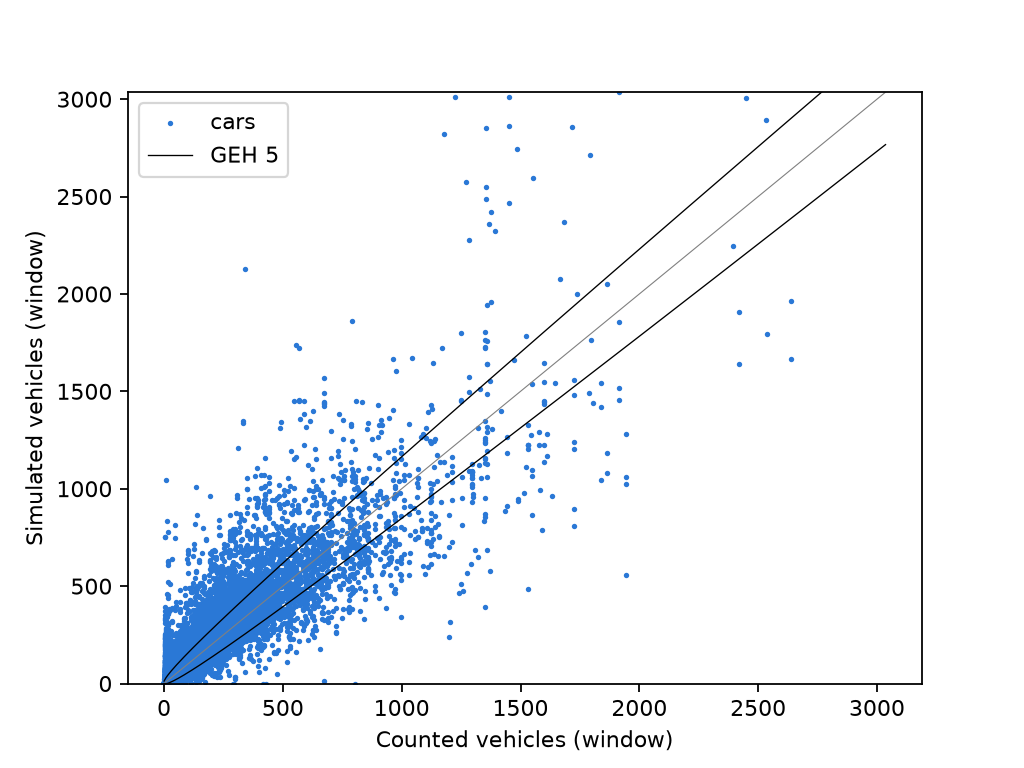
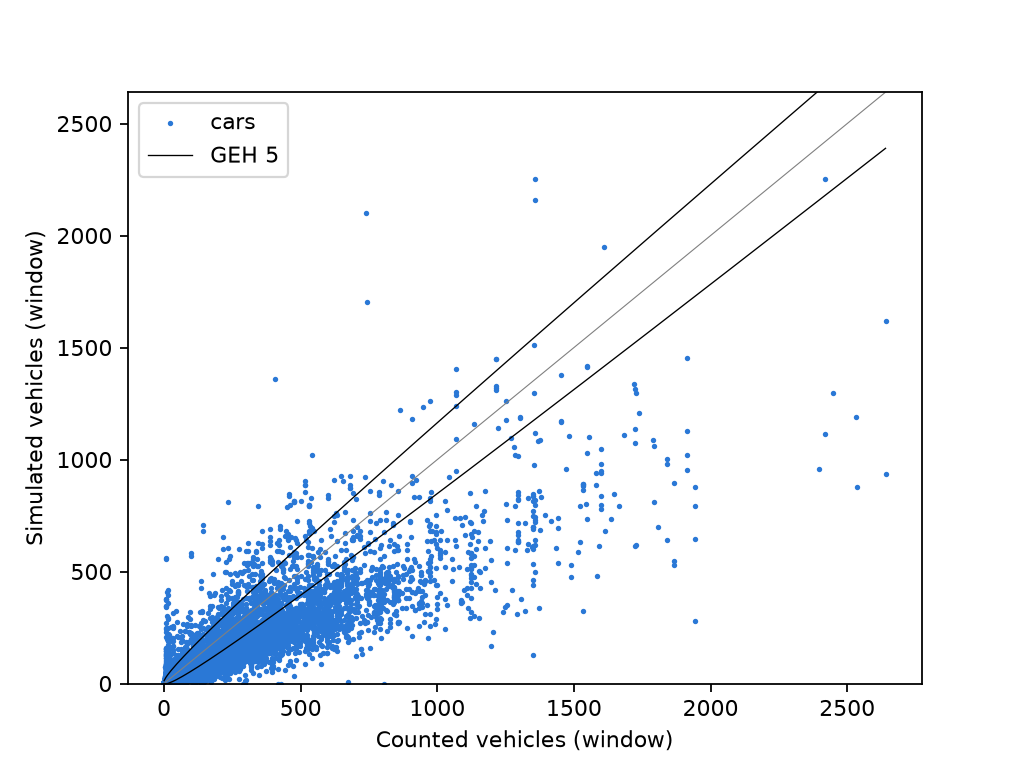
Stockholm numbers at the report scale

diff --git a/research/stockholm.md b/research/stockholm.md
@@ -125,3 +125,5 @@ city-wide congestion in the timelapse and visible Slussen approaches in the zoom
 ## Demand scale used for the report
 
 With the final engine the fitted 2.9M trips overload the network from 06:00 on: over 110,000 cars running and a million teleports. `scripts/stockholm/retime.py` keeps 60% of the trips and spreads each source band over a typical weekday profile instead of uniform hours, which removes the jump at 06:00. That profile is an assumption, the source has only three bands. At 60%, 82% of the 10,013 matched edges have daily GEH below 5 and r² is 0.61, against 70% and 0.50 at full demand. The scale was picked for this fit, so the fit is not independent validation. Teleports stay high, about 285,000, and the guessed signals and random route pool are the first things to replace.
+
+Latest figures at 60%, final engine: 1.63M trips inserted, 1.61M completed, peak 51,214 running, 302,180 teleports. Daily GEH<5 is 82%, r² 0.61, slope 0.49 at 10,013 matched edges. Per source band the GEH<5 share is lower, 38% for 06-18, 55% for 18-22, 71% for 22-06, because the retimed profile and the 60% scale were not fitted per band. The day took 172 s.
